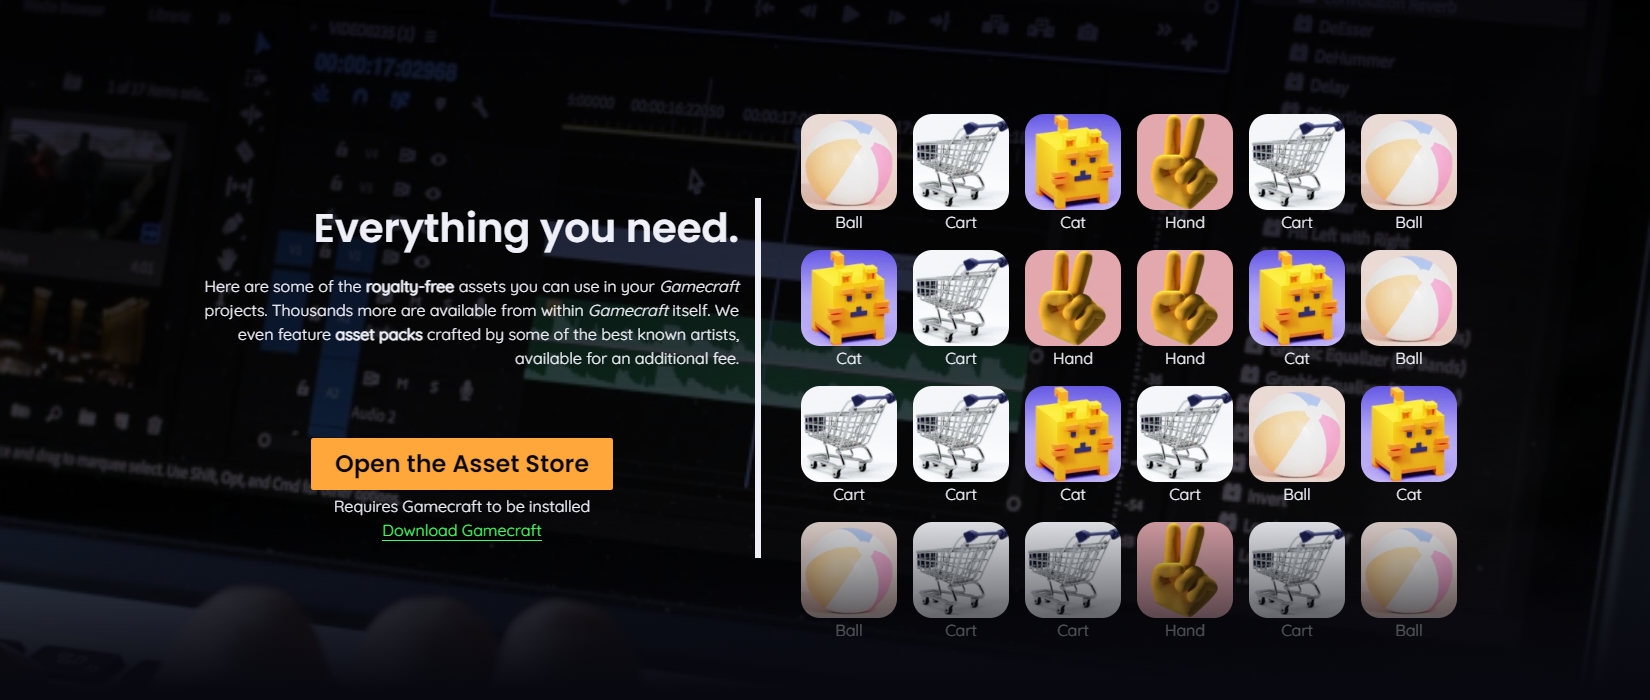
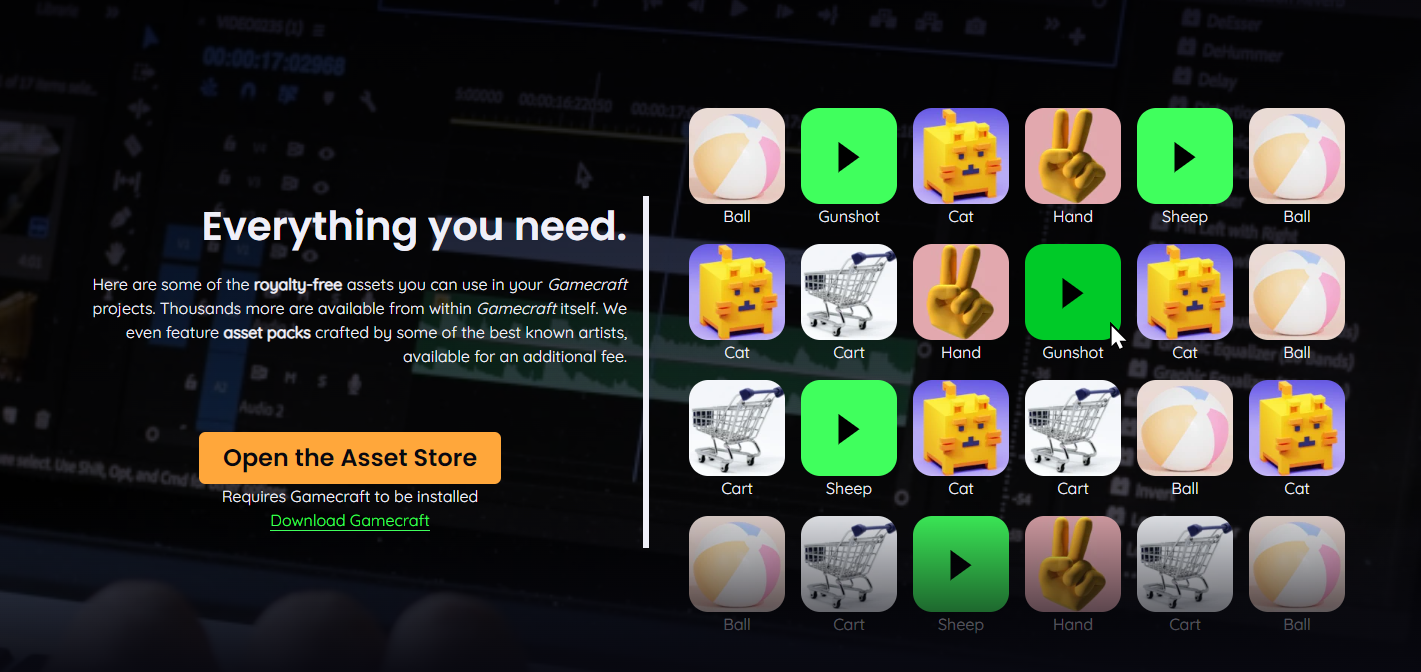
Update documentation with audio content

diff --git a/README.md b/README.md
@@ -43,7 +43,7 @@ The footer section lists all internal and external links and important section a
 
 ![Screenshot of the Asset Store page](doc/highlights/asset-store.png)
 
-The Asset Store page showcases thumbnails of some 3D models featured in the product, with a link to access the full store within the product itself.
+The Asset Store page showcases thumbnails of some 3D models featured in the product, as well as interactible audio assets, with a link to access the full store within the product itself.
 
 ![Screenshot of the Pricing page](doc/highlights/pricing.png)
 
@@ -65,6 +65,8 @@ The Support page contains a contact form, with field validation and browser auto
     -   Transitions and animations to make interaction more pleasant
     -   Box shadows, gradients and backdrop filters to help with text readability and intuitive flow
     -   Media queries for responsive design
+
+An inline Javascript one-liner is used to initiate audio playback on the Asset Store page.
 
 The site uses no frameworks, and the only externally loaded resources are the fonts. WebP images are exported with lossy compression set to 90. All code and text files are formatted with [Prettier](https://prettier.io), with indentation using tabs (not spaces.) The CSS is split into sections with `#section` markers, which can be collapsed in most IDEs and code editors.
 
